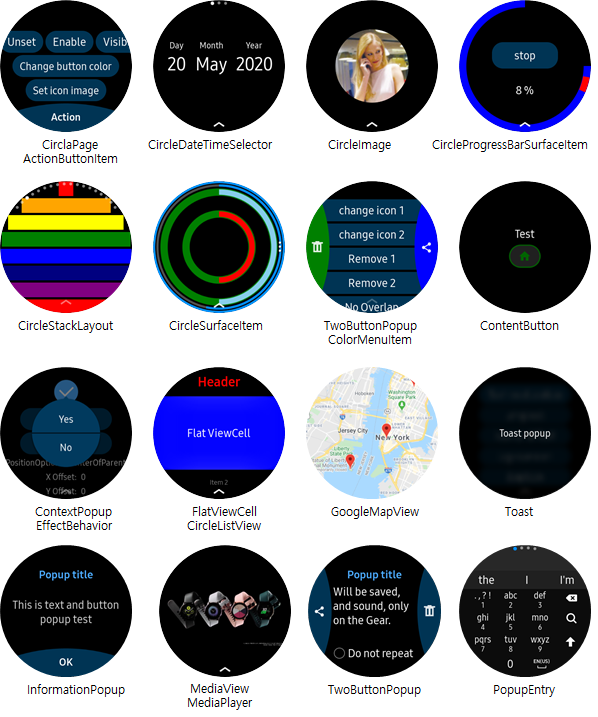
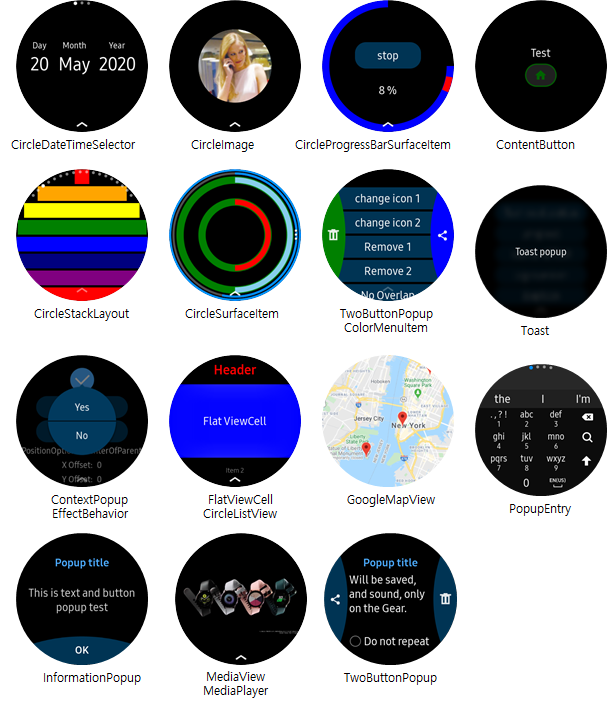
Update guide files and sample codes

diff --git a/sample/XUIComponents/UIComponents/UIComponents/Samples/CircleSpinner/SpinnerTimer.xaml b/sample/XUIComponents/UIComponents/UIComponents/Samples/CircleSpinner/SpinnerTimer.xaml
@@ -1,15 +1,15 @@
-<w:CirclePage
+<ContentPage
     x:Class="UIComponents.Samples.CircleSpinner.SpinnerTimer"
     xmlns="http://xamarin.com/schemas/2014/forms"
     xmlns:x="http://schemas.microsoft.com/winfx/2009/xaml"
     xmlns:local="clr-namespace:UIComponents.Samples.CircleSpinner"
     xmlns:sys="clr-namespace:System;assembly=netstandard"
     xmlns:w="clr-namespace:Tizen.Wearable.CircularUI.Forms;assembly=Tizen.Wearable.CircularUI.Forms"
-    RotaryFocusObject="{x:Reference StepperHr3}">
-    <w:CirclePage.BindingContext>
+    xmlns:tizen="clr-namespace:Xamarin.Forms.PlatformConfiguration.TizenSpecific;assembly=Xamarin.Forms.Core">
+    <ContentPage.BindingContext>
         <local:SpinnerViewModel />
-    </w:CirclePage.BindingContext>
-    <w:CirclePage.Content>
+    </ContentPage.BindingContext>
+    <ContentPage.Content>
         <StackLayout Padding="0,50,0,0" Orientation="Vertical">
             <Label
                 FontAttributes="Bold"
@@ -44,7 +44,6 @@
                 VerticalOptions="Start">
                 <w:CircleStepper
                     x:Name="StepperHr3"
-                    Focused="OnFocusedHr"
                     HorizontalOptions="Center"
                     MarkerColor="Coral"
                     Maximum="23"
@@ -53,7 +52,6 @@
                     Value="{Binding Hour}" />
                 <w:CircleStepper
                     x:Name="StepperMm3"
-                    Focused="OnFocusedMm"
                     HorizontalOptions="Center"
                     MarkerColor="Blue"
                     Maximum="59"
@@ -62,7 +60,6 @@
                     Value="{Binding Minute}" />
                 <w:CircleStepper
                     x:Name="StepperSec3"
-                    Focused="OnFocusedSec"
                     HorizontalOptions="Center"
                     MarkerColor="DarkRed"
                     Maximum="59"
@@ -70,9 +67,7 @@
                     WidthRequest="120"
                     Value="{Binding Second}" />
             </StackLayout>
+            <Button Command="{Binding TimerButtonPressedExit}" Text="SET" tizen:VisualElement.Style="{x:Static tizen:ButtonStyle.Bottom}" />
         </StackLayout>
-    </w:CirclePage.Content>
-    <w:CirclePage.ActionButton>
-        <w:ActionButtonItem Command="{Binding TimerButtonPressedExit}" Text="SET" />
-    </w:CirclePage.ActionButton>
-</w:CirclePage>
+    </ContentPage.Content>
+</ContentPage>

diff --git a/sample/XUIComponents/UIComponents/UIComponents/Samples/CircleSpinner/SpinnerDefault.xaml b/sample/XUIComponents/UIComponents/UIComponents/Samples/CircleSpinner/SpinnerDefault.xaml
@@ -1,15 +1,15 @@
-<w:CirclePage
+<ContentPage
     x:Class="UIComponents.Samples.CircleSpinner.SpinnerDefault"
     xmlns="http://xamarin.com/schemas/2014/forms"
     xmlns:x="http://schemas.microsoft.com/winfx/2009/xaml"
     xmlns:local="clr-namespace:UIComponents.Samples.CircleSpinner"
     xmlns:sys="clr-namespace:System;assembly=netstandard"
     xmlns:w="clr-namespace:Tizen.Wearable.CircularUI.Forms;assembly=Tizen.Wearable.CircularUI.Forms"
-    RotaryFocusObject="{x:Reference stepper}">
-    <w:CirclePage.BindingContext>
+    xmlns:tizen="clr-namespace:Xamarin.Forms.PlatformConfiguration.TizenSpecific;assembly=Xamarin.Forms.Core">
+    <ContentPage.BindingContext>
         <local:SpinnerViewModel />
-    </w:CirclePage.BindingContext>
-    <w:CirclePage.Content>
+    </ContentPage.BindingContext>
+    <ContentPage.Content>
         <StackLayout Padding="0,50,0,0" Orientation="Vertical">
             <Label
                 FontAttributes="Bold"
@@ -31,9 +31,7 @@
                 Maximum="99.0"
                 Minimum="9.0"
                 Value="{Binding Value}" />
+            <Button Command="{Binding ButtonPressedExit}" Text="OK" tizen:VisualElement.Style="{x:Static tizen:ButtonStyle.Bottom}" />
         </StackLayout>
-    </w:CirclePage.Content>
-    <w:CirclePage.ActionButton>
-        <w:ActionButtonItem Command="{Binding ButtonPressedExit}" Text="SET" />
-    </w:CirclePage.ActionButton>
-</w:CirclePage>
+    </ContentPage.Content>
+</ContentPage>

diff --git a/sample/XUIComponents/UIComponents/UIComponents/Samples/CircleDateTime/CircleDate.xaml b/sample/XUIComponents/UIComponents/UIComponents/Samples/CircleDateTime/CircleDate.xaml
@@ -1,15 +1,15 @@
-<w:CirclePage
+<ContentPage
     x:Class="UIComponents.Samples.CircleDateTime.CircleDate"
     xmlns="http://xamarin.com/schemas/2014/forms"
     xmlns:x="http://schemas.microsoft.com/winfx/2009/xaml"
     xmlns:local="clr-namespace:UIComponents.Samples.CircleDateTime"
     xmlns:sys="clr-namespace:System;assembly=netstandard"
     xmlns:w="clr-namespace:Tizen.Wearable.CircularUI.Forms;assembly=Tizen.Wearable.CircularUI.Forms"
-    RotaryFocusObject="{x:Reference dateSelector}">
-    <w:CirclePage.BindingContext>
+    xmlns:tizen="clr-namespace:Xamarin.Forms.PlatformConfiguration.TizenSpecific;assembly=Xamarin.Forms.Core">
+    <ContentPage.BindingContext>
         <local:DateTimeViewModel />
-    </w:CirclePage.BindingContext>
-    <w:CirclePage.Content>
+    </ContentPage.BindingContext>
+    <ContentPage.Content>
         <StackLayout
             BackgroundColor="Black"
             HorizontalOptions="FillAndExpand"
@@ -21,9 +21,7 @@
                 MaximumDate="1/1/2022"
                 MinimumDate="1/12/2010"
                 ValueType="Date" />
+            <Button Command="{Binding ButtonPressedExit}" Text="OK" tizen:VisualElement.Style="{x:Static tizen:ButtonStyle.Bottom}" />
         </StackLayout>
-    </w:CirclePage.Content>
-    <w:CirclePage.ActionButton>
-        <w:ActionButtonItem Command="{Binding ButtonPressedExit}" Text="OK" />
-    </w:CirclePage.ActionButton>
-</w:CirclePage>
+    </ContentPage.Content>
+</ContentPage>

diff --git a/sample/XUIComponents/UIComponents/UIComponents/Samples/CircleDateTime/CircleTime.xaml b/sample/XUIComponents/UIComponents/UIComponents/Samples/CircleDateTime/CircleTime.xaml
@@ -1,15 +1,15 @@
-<w:CirclePage
+<ContentPage
     x:Class="UIComponents.Samples.CircleDateTime.CircleTime"
     xmlns="http://xamarin.com/schemas/2014/forms"
     xmlns:x="http://schemas.microsoft.com/winfx/2009/xaml"
     xmlns:local="clr-namespace:UIComponents.Samples.CircleDateTime"
     xmlns:sys="clr-namespace:System;assembly=netstandard"
     xmlns:w="clr-namespace:Tizen.Wearable.CircularUI.Forms;assembly=Tizen.Wearable.CircularUI.Forms"
-    RotaryFocusObject="{x:Reference timeSelector}">
-    <w:CirclePage.BindingContext>
+    xmlns:tizen="clr-namespace:Xamarin.Forms.PlatformConfiguration.TizenSpecific;assembly=Xamarin.Forms.Core">
+    <ContentPage.BindingContext>
         <local:DateTimeViewModel />
-    </w:CirclePage.BindingContext>
-    <w:CirclePage.Content>
+    </ContentPage.BindingContext>
+    <ContentPage.Content>
         <StackLayout
             BackgroundColor="Black"
             HorizontalOptions="FillAndExpand"
@@ -21,9 +21,7 @@
                 MaximumDate="1/1/2022"
                 MinimumDate="1/12/2010"
                 ValueType="Time" />
+            <Button Command="{Binding ButtonPressedExit}" Text="OK" tizen:VisualElement.Style="{x:Static tizen:ButtonStyle.Bottom}" />
         </StackLayout>
-    </w:CirclePage.Content>
-    <w:CirclePage.ActionButton>
-        <w:ActionButtonItem Command="{Binding ButtonPressedExit}" Text="OK" />
-    </w:CirclePage.ActionButton>
-</w:CirclePage>
+    </ContentPage.Content>
+</ContentPage>

diff --git a/sample/XUIComponents/UIComponents/UIComponents/Samples/CircleScroller/VerticalScroller.xaml b/sample/XUIComponents/UIComponents/UIComponents/Samples/CircleScroller/VerticalScroller.xaml
@@ -1,13 +1,12 @@
-<w:CirclePage
+<ContentPage
     x:Class="UIComponents.Samples.CircleScroller.VerticalScroller"
     xmlns="http://xamarin.com/schemas/2014/forms"
     xmlns:x="http://schemas.microsoft.com/winfx/2009/xaml"
     xmlns:local="clr-namespace:UIComponents.Samples.CircleScroller"
     xmlns:sys="clr-namespace:System;assembly=netstandard"
-    xmlns:w="clr-namespace:Tizen.Wearable.CircularUI.Forms;assembly=Tizen.Wearable.CircularUI.Forms"
-    RotaryFocusObject="{x:Reference myscroller}">
-    <w:CirclePage.Content>
-        <w:CircleScrollView x:Name="myscroller" Orientation="Vertical">
+    xmlns:w="clr-namespace:Tizen.Wearable.CircularUI.Forms;assembly=Tizen.Wearable.CircularUI.Forms">
+    <ContentPage.Content>
+        <w:CircleScrollView x:Name="myscroller" Orientation="Vertical" BarColor="Red">
             <StackLayout
                 HorizontalOptions="FillAndExpand"
                 Orientation="Vertical"
@@ -32,5 +31,5 @@
                 <Image HorizontalOptions="CenterAndExpand" Source="tw_number_controller_icon_ringtone_sound.png" />
             </StackLayout>
         </w:CircleScrollView>
-    </w:CirclePage.Content>
-</w:CirclePage>
+    </ContentPage.Content>
+</ContentPage>

diff --git a/sample/XUIComponents/UIComponents/UIComponents/Samples/CircleList/Style1Text1Icon1.xaml b/sample/XUIComponents/UIComponents/UIComponents/Samples/CircleList/Style1Text1Icon1.xaml
@@ -1,15 +1,14 @@
-<w:CirclePage
+<ContentPage
     x:Class="UIComponents.Samples.CircleList.Style1Text1Icon1"
     xmlns="http://xamarin.com/schemas/2014/forms"
     xmlns:x="http://schemas.microsoft.com/winfx/2009/xaml"
     xmlns:local="clr-namespace:UIComponents.Samples.CircleList"
     xmlns:sys="clr-namespace:System;assembly=netstandard"
-    xmlns:w="clr-namespace:Tizen.Wearable.CircularUI.Forms;assembly=Tizen.Wearable.CircularUI.Forms"
-    RotaryFocusObject="{x:Reference mylist}">
-    <w:CirclePage.BindingContext>
+    xmlns:w="clr-namespace:Tizen.Wearable.CircularUI.Forms;assembly=Tizen.Wearable.CircularUI.Forms">
+    <ContentPage.BindingContext>
         <local:ListViewModel />
-    </w:CirclePage.BindingContext>
-    <w:CirclePage.Content>
+    </ContentPage.BindingContext>
+    <ContentPage.Content>
         <w:CircleListView
             x:Name="mylist"
             HasUnevenRows="True"
@@ -39,5 +38,5 @@
                 </DataTemplate>
             </w:CircleListView.ItemTemplate>
         </w:CircleListView>
-    </w:CirclePage.Content>
-</w:CirclePage>
+    </ContentPage.Content>
+</ContentPage>

diff --git a/sample/XUIComponents/UIComponents/UIComponents/Samples/CircleList/Style2text1icon1.xaml b/sample/XUIComponents/UIComponents/UIComponents/Samples/CircleList/Style2text1icon1.xaml
@@ -1,15 +1,14 @@
-<w:CirclePage
+<ContentPage
     x:Class="UIComponents.Samples.CircleList.Style2text1icon1"
     xmlns="http://xamarin.com/schemas/2014/forms"
     xmlns:x="http://schemas.microsoft.com/winfx/2009/xaml"
     xmlns:local="clr-namespace:UIComponents.Samples.CircleList"
     xmlns:sys="clr-namespace:System;assembly=netstandard"
-    xmlns:w="clr-namespace:Tizen.Wearable.CircularUI.Forms;assembly=Tizen.Wearable.CircularUI.Forms"
-    RotaryFocusObject="{x:Reference mylist}">
-    <w:CirclePage.BindingContext>
+    xmlns:w="clr-namespace:Tizen.Wearable.CircularUI.Forms;assembly=Tizen.Wearable.CircularUI.Forms">
+    <ContentPage.BindingContext>
         <local:ListViewModel />
-    </w:CirclePage.BindingContext>
-    <w:CirclePage.Content>
+    </ContentPage.BindingContext>
+    <ContentPage.Content>
         <w:CircleListView
             x:Name="mylist"
             HasUnevenRows="True"
@@ -51,5 +50,5 @@
                 </DataTemplate>
             </w:CircleListView.ItemTemplate>
         </w:CircleListView>
-    </w:CirclePage.Content>
-</w:CirclePage>
+    </ContentPage.Content>
+</ContentPage>

diff --git a/sample/XUIComponents/UIComponents/UIComponents/Samples/CircleScroller/HorizontalScroller.xaml b/sample/XUIComponents/UIComponents/UIComponents/Samples/CircleScroller/HorizontalScroller.xaml
@@ -1,12 +1,11 @@
-<w:CirclePage
+<ContentPage
     x:Class="UIComponents.Samples.CircleScroller.HorizontalScroller"
     xmlns="http://xamarin.com/schemas/2014/forms"
     xmlns:x="http://schemas.microsoft.com/winfx/2009/xaml"
     xmlns:local="clr-namespace:UIComponents.Samples.CircleScroller"
     xmlns:sys="clr-namespace:System;assembly=netstandard"
-    xmlns:w="clr-namespace:Tizen.Wearable.CircularUI.Forms;assembly=Tizen.Wearable.CircularUI.Forms"
-    RotaryFocusObject="{x:Reference myscroller}">
-    <w:CirclePage.Content>
+    xmlns:w="clr-namespace:Tizen.Wearable.CircularUI.Forms;assembly=Tizen.Wearable.CircularUI.Forms">
+    <ContentPage.Content>
         <w:CircleScrollView x:Name="myscroller" Orientation="Horizontal">
             <StackLayout
                 HorizontalOptions="FillAndExpand"
@@ -32,5 +31,5 @@
                 <Image Source="tw_number_controller_icon_ringtone_sound.png" VerticalOptions="CenterAndExpand" />
             </StackLayout>
         </w:CircleScrollView>
-    </w:CirclePage.Content>
-</w:CirclePage>
+    </ContentPage.Content>
+</ContentPage>

diff --git a/test/WearableUIGallery/WearableUIGallery/TC/TCCircleListView.xaml b/test/WearableUIGallery/WearableUIGallery/TC/TCCircleListView.xaml
@@ -1,12 +1,11 @@
 <?xml version="1.0" encoding="utf-8" ?>
-<w:BezelInteractionPage
+<ContentPage
     x:Class="WearableUIGallery.TC.TCCircleListView"
     xmlns="http://xamarin.com/schemas/2014/forms"
     xmlns:x="http://schemas.microsoft.com/winfx/2009/xaml"
     xmlns:sys="clr-namespace:System;assembly=netstandard"
-    xmlns:w="clr-namespace:Tizen.Wearable.CircularUI.Forms;assembly=Tizen.Wearable.CircularUI.Forms"
-    RotaryFocusObject="{x:Reference mylist}">
-    <w:BezelInteractionPage.Content>
+    xmlns:w="clr-namespace:Tizen.Wearable.CircularUI.Forms;assembly=Tizen.Wearable.CircularUI.Forms">
+    <ContentPage.Content>
         <w:CircleListView x:Name="mylist" RowHeight="360" ItemTapped="OnItemTapped">
             <w:CircleListView.ItemsSource>
                 <x:Array x:Key="array" Type="{x:Type sys:String}">
@@ -62,5 +61,5 @@
                 </DataTemplate>
             </w:CircleListView.FooterTemplate>
         </w:CircleListView>
-    </w:BezelInteractionPage.Content>
-</w:BezelInteractionPage>
+    </ContentPage.Content>
+</ContentPage>

diff --git a/sample/XUIComponents/UIComponents/UIComponents/Samples/CircleSpinner/SpinnerTimer.xaml.cs b/sample/XUIComponents/UIComponents/UIComponents/Samples/CircleSpinner/SpinnerTimer.xaml.cs
@@ -24,7 +24,7 @@ namespace UIComponents.Samples.CircleSpinner
     /// SpinnerTimer class
     /// </summary>
     [XamlCompilation(XamlCompilationOptions.Compile)]
-    public partial class SpinnerTimer : CirclePage
+    public partial class SpinnerTimer : ContentPage
     {
         /// <summary>
         /// Constructor of SpinnerTimer class
@@ -32,34 +32,6 @@ namespace UIComponents.Samples.CircleSpinner
         public SpinnerTimer()
         {
             InitializeComponent();
-        }
-
-        /// <summary>
-        /// Called when is focused on Hr spinner
-        /// </summary>
-        /// <param name="sender">Object</param>
-        /// <param name="args">Argument of ValueChangedEventArgs</param>
-        void OnFocusedHr(object sender, ValueChangedEventArgs args)
-        {
-            RotaryFocusObject = StepperHr3;
-        }
-        /// <summary>
-        /// Called when is focused on Mm spinner
-        /// </summary>
-        /// <param name="sender">Object</param>
-        /// <param name="args">Argument of ValueChangedEventArgs</param>
-        void OnFocusedMm(object sender, ValueChangedEventArgs args)
-        {
-            RotaryFocusObject = StepperMm3;
-        }
-        /// <summary>
-        /// Called when is focused on Sec spinner
-        /// </summary>
-        /// <param name="sender">Object</param>
-        /// <param name="args">Argument of ValueChangedEventArgs</param>
-        void OnFocusedSec(object sender, ValueChangedEventArgs args)
-        {
-            RotaryFocusObject = StepperSec3;
         }
     }
 }

diff --git a/sample/XUIComponents/UIComponents/UIComponents/Samples/CircleScroller/HorizontalScroller.xaml.cs b/sample/XUIComponents/UIComponents/UIComponents/Samples/CircleScroller/HorizontalScroller.xaml.cs
@@ -15,6 +15,7 @@
  */
 
 using Tizen.Wearable.CircularUI.Forms;
+using Xamarin.Forms;
 using Xamarin.Forms.Xaml;
 
 namespace UIComponents.Samples.CircleScroller
@@ -23,7 +24,7 @@ namespace UIComponents.Samples.CircleScroller
     /// HorizontalScroller class
     /// </summary>
     [XamlCompilation(XamlCompilationOptions.Compile)]
-    public partial class HorizontalScroller : CirclePage
+    public partial class HorizontalScroller : ContentPage
     {
         /// <summary>
         /// Constructor of HorizontalScroller class

diff --git a/sample/XUIComponents/UIComponents/UIComponents/Samples/CircleScroller/VerticalScroller.xaml.cs b/sample/XUIComponents/UIComponents/UIComponents/Samples/CircleScroller/VerticalScroller.xaml.cs
@@ -15,6 +15,7 @@
  */
 
 using Tizen.Wearable.CircularUI.Forms;
+using Xamarin.Forms;
 using Xamarin.Forms.Xaml;
 
 namespace UIComponents.Samples.CircleScroller
@@ -23,7 +24,7 @@ namespace UIComponents.Samples.CircleScroller
     /// VerticalScroller class
     /// </summary>
     [XamlCompilation(XamlCompilationOptions.Compile)]
-    public partial class VerticalScroller : CirclePage
+    public partial class VerticalScroller : ContentPage
     {
         /// <summary>
         /// Constructor of VerticalScroller class
